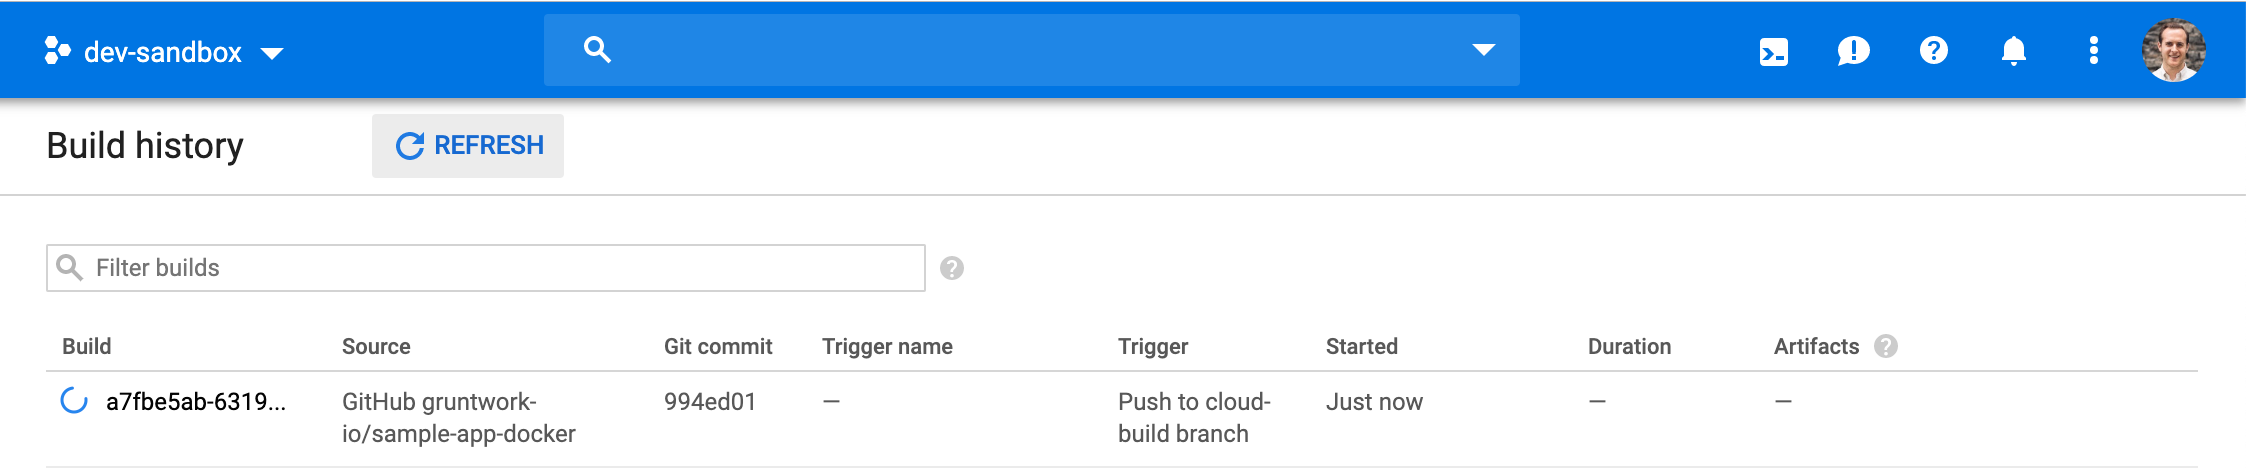
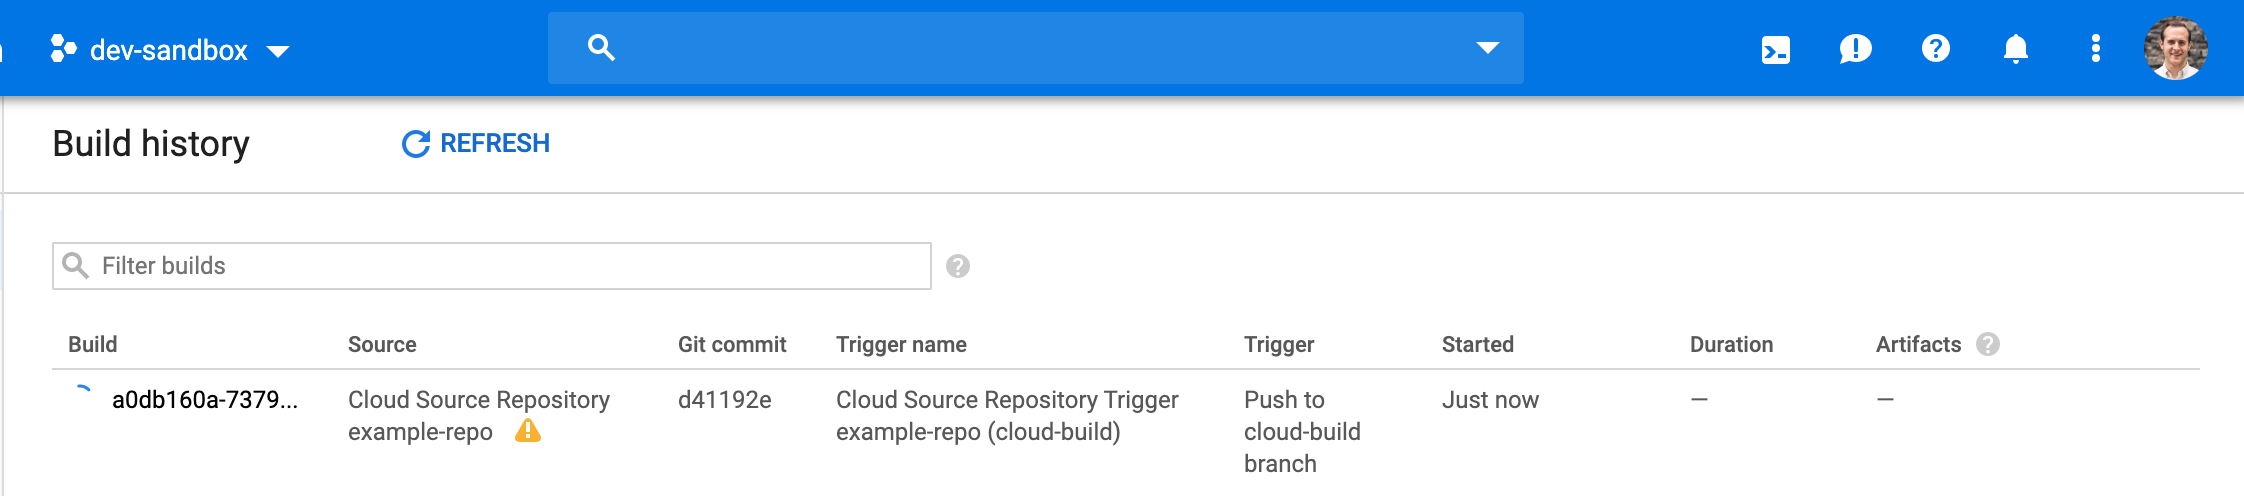
finalize example docs

diff --git a/examples/cloud-build-csr-gke/README.md b/examples/cloud-build-csr-gke/README.md
@@ -22,7 +22,6 @@ In this guide we will walk through the steps necessary to set up a CI/CD pipelin
 cluster. Here are the steps:
 
 1. [Install the necessary tools](#installing-necessary-tools)
-1. [Prepare a Cloud Source Repository with some source code to build](#preparing-the-cloud-source-repository)
 1. [Configure Cloud Build](#configuring-cloud-build)
 1. [Apply the Terraform code](#apply-the-terraform-code)
 1. [Trigger a build by pushing changes to the Cloud Source Repository](#triggering-a-build)
@@ -43,22 +42,6 @@ post](https://stackoverflow.com/questions/14637979/how-to-permanently-set-path-o
 setting up your `PATH` on Unix, and [this
 post](https://stackoverflow.com/questions/1618280/where-can-i-set-path-to-make-exe-on-windows) for instructions on
 Windows.
-
-## Preparing the Cloud Source Repository Repo
-
-The Terraform code in this example deploys an empty Cloud Source Repository.
-
-For the purposes of this example, we have prepared a [sample GitHub repository](https://github.com/gruntwork-io/sample-app-docker)
-with a basic application to build. We recommend you clone this repository and push it to the Cloud Source Repository that will be
-deployed in this example.
-
-1. Clone the `sample-app-docker` repo to an empty directory outside of this example:
-   - `$ git clone https://github.com/gruntwork-io/sample-app-docker.git`
-1. Add the the Cloud Source Repository as a remote:
-   - `$ git remote google ssh://[EMAIL]@source.developers.google.com:2022/p/[PROJECT_ID]/r/[REPO_NAME]`
-   - **Note:** Be sure to replace the [EMAIL], [PROJECT_ID] and [REPO_NAME] with your values.
-1. Push the sample app to the Cloud Source Repository
-   - `$ git push --all google`
 
 ## Configuring Cloud Build
 
@@ -100,6 +83,7 @@ This Terraform code will:
 
 - Create a VPC network to contain the resources
 - Deploy a publicly accessible GKE cluster
+- Create a repository on Cloud Source Repositories
 - Deploy a GCR repository for storing build artifacts
 - Create a Cloud Build Trigger to trigger builds in response to Cloud Source Repository changes.
 
@@ -107,14 +91,21 @@ At the end of `terraform apply`, you should now have a working CI/CD pipeline de
 
 ## Triggering a Build
 
-To trigger a build we need to commit and push some changes to the Cloud Source Repository:
+To trigger a build we need to commit and push some changes to the Cloud Source Repository. For the purposes of this
+example, we have prepared a [sample GitHub repository](https://github.com/gruntwork-io/sample-app-docker) with a
+basic application. We recommend you clone this repository and push it to the Cloud Source Repository that was created
+in the previous step.
 
-1. `$ echo $(date) >> test.txt`
-1. `$ git add test.txt && git commit -m 'test commit'`
-1. `$ git push --all google`
+1. Clone the `sample-app-docker` repo to an empty directory outside of this example:
+   - `$ git clone https://github.com/gruntwork-io/sample-app-docker.git`
+1. Add the the Cloud Source Repository as a remote:
+   - `$ git remote google ssh://[EMAIL]@source.developers.google.com:2022/p/[PROJECT_ID]/r/[REPO_NAME]`
+   - **Note:** Be sure to replace the [EMAIL] (Google IAM user's address), [PROJECT_ID] and [REPO_NAME] with your values.
+1. Push the sample app to the Cloud Source Repository
+   - `$ git push --all google`
 
-After you've pushed the changes to GitHub, Cloud Build will automatically trigger a new build. You can view the build
-status directly in the [GCP console](https://console.cloud.google.com/cloud-build/builds).
+After you've pushed the changes to Google Source Repositories, Cloud Build will automatically trigger a new build. You
+can view the build status directly in the [GCP console](https://console.cloud.google.com/cloud-build/builds).
 
 ![Cloud Build History](_docs/gcp-build-history.png)
 
@@ -124,8 +115,8 @@ Or by using the `gcloud` CLI tool:
 $ gcloud builds list --limit=5
 ```
 
-During the build Cloud Build will install the sample app's dependencies, execute the tests, build a docker image and
-push it to the GCR registry.
+During the build Cloud Build will install the sample app's dependencies, execute the tests, build a docker image,
+push it to the GCR registry then create a deployment on the GKE cluster.
 
 ## Viewing the Deployment
 
